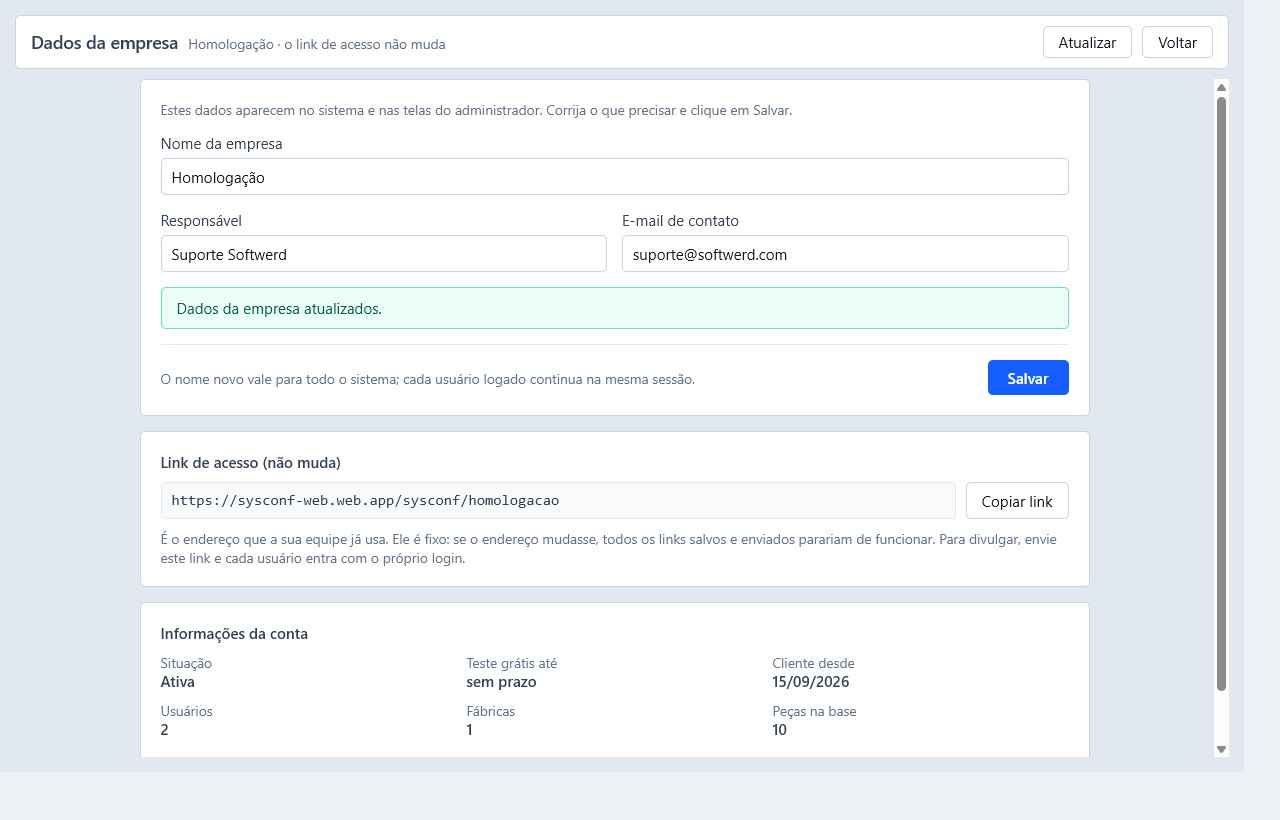
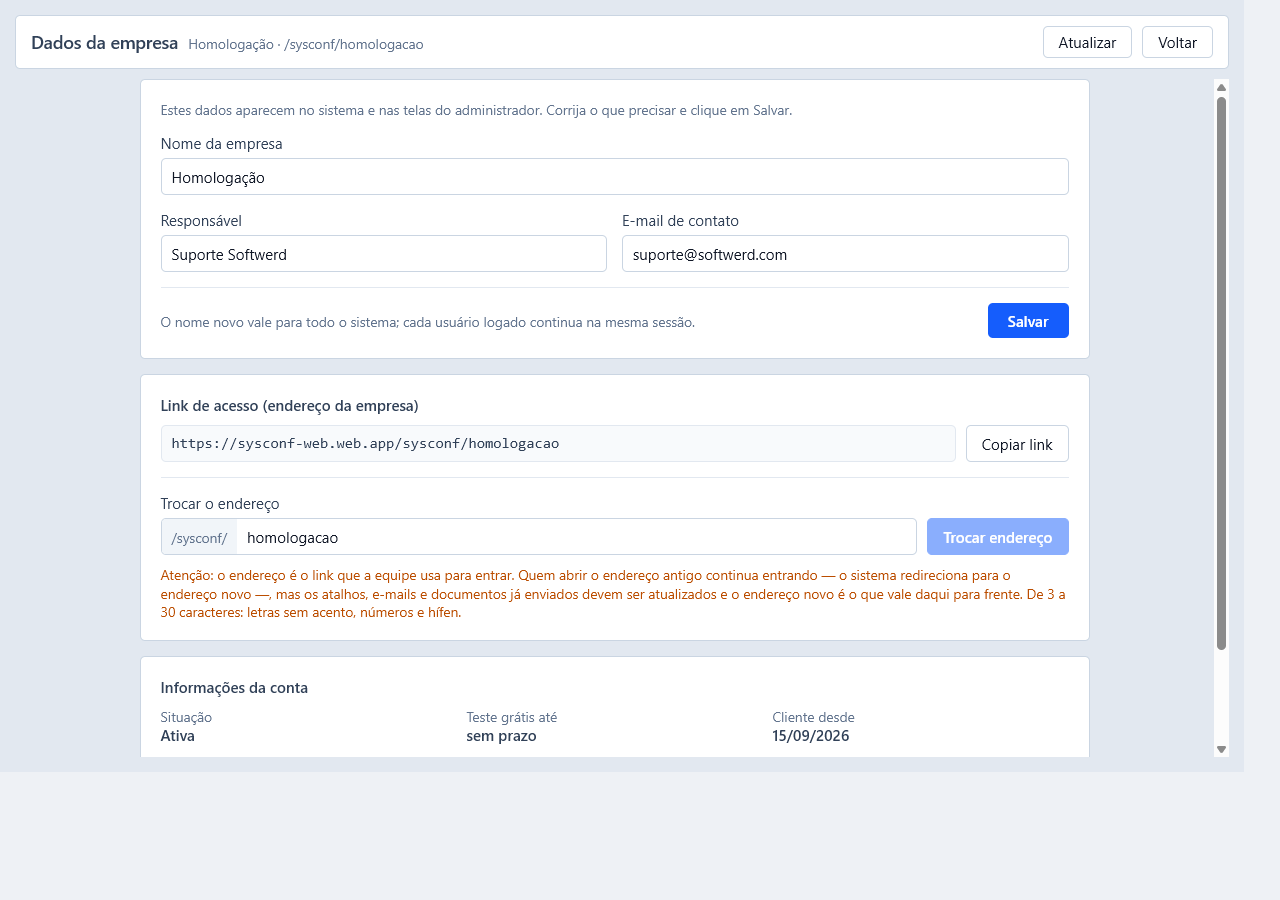
feat(empresa): trocar o endereco (slug) na tela de dados da empresa, com apelido e redirecionamento dos links antigos

Changed region(s): [[0.0, 0.0305, 0.9688, 0.8841], [0.9375, 0.7317, 0.9688, 0.8537]]

diff --git a/web/src/telas/EmpresaDados.tsx b/web/src/telas/EmpresaDados.tsx
@@ -8,7 +8,7 @@ import {
   type Empresa,
   type UsuarioLogado,
 } from '../lib/api';
-import { PERFIL } from '../lib/config';
+import { PERFIL, erroDoEndereco } from '../lib/config';
 
 type Props = {
   empresa: Empresa;
@@ -44,6 +44,8 @@ export default function EmpresaDados({ empresa, usuarioLogado, onVoltar, onAtual
   const [ocupado, setOcupado] = useState(false);
   const [migracaoOk, setMigracaoOk] = useState(true);
   const [copiado, setCopiado] = useState(false);
+  /** Endereço novo (o campo começa com o endereço atual). */
+  const [endereco, setEndereco] = useState('');
 
   const administrador = usuarioLogado.perfil === PERFIL.ADMIN;
 
@@ -56,6 +58,7 @@ export default function EmpresaDados({ empresa, usuarioLogado, onVoltar, onAtual
       setNome(encontrados.nome ?? '');
       setResponsavel(encontrados.responsavel ?? '');
       setEmail(encontrados.email_contato ?? '');
+      setEndereco(encontrados.slug ?? '');
       setMigracaoOk(true);
     } catch (falha) {
       if (migracaoPendente(falha)) setMigracaoOk(false);
@@ -102,6 +105,50 @@ export default function EmpresaDados({ empresa, usuarioLogado, onVoltar, onAtual
     }
   }
 
+  /**
+   * Troca o ENDEREÇO da empresa. Depois de gravar, o próprio app recarrega no
+   * endereço novo (o link antigo passa a redirecionar para ele).
+   */
+  async function trocarEndereco() {
+    setErro('');
+    setMensagem('');
+
+    const novo = endereco.trim().toLowerCase();
+    if (!dados || novo === dados.slug.toLowerCase()) {
+      setErro('O endereço informado é o mesmo que já está em uso.');
+      return;
+    }
+
+    const problema = erroDoEndereco(novo);
+    if (problema) {
+      setErro(problema);
+      return;
+    }
+
+    const confirmado = confirm(
+      `Trocar o endereço de /sysconf/${dados.slug} para /sysconf/${novo}?\n\n` +
+        'Quem usar o endereço antigo será levado para o novo automaticamente, mas divulgue o endereço ' +
+        'novo para a equipe.',
+    );
+    if (!confirmado) return;
+
+    setOcupado(true);
+    try {
+      await atualizarDadosEmpresa({
+        nome: nome.trim(),
+        responsavel,
+        emailContato: email,
+        slug: novo,
+      });
+      setMensagem(`Endereço alterado para /sysconf/${novo}. Recarregando...`);
+      /* recarrega no endereço novo: a empresa é resolvida pela URL */
+      window.location.href = `${window.location.origin}/sysconf/${novo}/empresa`;
+    } catch (falha) {
+      setErro(falha instanceof Error ? falha.message : 'Falha ao trocar o endereço.');
+      setOcupado(false);
+    }
+  }
+
   if (!administrador) {
     return (
       <div className="flex h-screen items-center justify-center bg-slate-200 p-6">
@@ -127,7 +174,7 @@ export default function EmpresaDados({ empresa, usuarioLogado, onVoltar, onAtual
         <h1 className="text-sm font-semibold text-slate-700">
           Dados da empresa
           <span className="ml-2 text-[11px] font-normal text-slate-500">
-            {dados?.nome ?? ''} · o link de acesso não muda
+            {dados ? `${dados.nome} · /sysconf/${dados.slug}` : ''}
           </span>
         </h1>
         <div className="flex items-center gap-2">
@@ -223,7 +270,7 @@ export default function EmpresaDados({ empresa, usuarioLogado, onVoltar, onAtual
 
           {/* ------------------------------------------- link de acesso -- */}
           <div className="rounded border border-slate-300 bg-white p-4 text-xs">
-            <p className="mb-2 font-semibold text-slate-700">Link de acesso (não muda)</p>
+            <p className="mb-2 font-semibold text-slate-700">Link de acesso (endereço da empresa)</p>
             <div className="flex flex-wrap items-center gap-2">
               <code className="flex-1 rounded border border-slate-200 bg-slate-50 px-2 py-1.5 break-all text-slate-700">
                 {window.location.origin}/sysconf/{dados?.slug ?? empresa.slug}
@@ -235,11 +282,38 @@ export default function EmpresaDados({ empresa, usuarioLogado, onVoltar, onAtual
                 {copiado ? 'Copiado!' : 'Copiar link'}
               </button>
             </div>
-            <p className="mt-2 text-[11px] text-slate-500">
-              É o endereço que a sua equipe já usa. Ele é fixo: se o endereço mudasse, todos os links
-              salvos e enviados parariam de funcionar. Para divulgar, envie este link e cada usuário
-              entra com o próprio login.
-            </p>
+
+            <div className="mt-3 border-t border-slate-200 pt-3">
+              <span className="mb-1 block text-slate-700">Trocar o endereço</span>
+              <div className="flex flex-wrap items-stretch gap-2">
+                <div className="flex flex-1 items-stretch overflow-hidden rounded border border-slate-300">
+                  <span className="flex items-center bg-slate-100 px-2 text-[11px] text-slate-500">
+                    /sysconf/
+                  </span>
+                  <input
+                    value={endereco}
+                    maxLength={30}
+                    onChange={(e) =>
+                      setEndereco(e.target.value.toLowerCase().replace(/[^a-z0-9-]/g, '').slice(0, 30))
+                    }
+                    className="w-full px-2 py-1.5 outline-none focus:bg-emerald-50"
+                  />
+                </div>
+                <button
+                  onClick={() => void trocarEndereco()}
+                  disabled={ocupado || !dados || endereco.trim().toLowerCase() === dados?.slug?.toLowerCase()}
+                  className="rounded border border-blue-600 bg-blue-600 px-3 py-1.5 font-semibold text-white hover:bg-blue-700 disabled:opacity-50"
+                >
+                  Trocar endereço
+                </button>
+              </div>
+              <p className="mt-2 text-[11px] text-amber-700">
+                Atenção: o endereço é o link que a equipe usa para entrar. Quem abrir o endereço antigo
+                continua entrando — o sistema redireciona para o endereço novo —, mas os atalhos, e-mails
+                e documentos já enviados devem ser atualizados e o endereço novo é o que vale daqui para
+                frente. De 3 a 30 caracteres: letras sem acento, números e hífen.
+              </p>
+            </div>
           </div>
 
           {/* --------------------------------------------- só informativo -- */}

diff --git a/web/src/telas/Ajuda.tsx b/web/src/telas/Ajuda.tsx
@@ -258,18 +258,20 @@ const SECOES: Secao[] = [
     id: 'empresa',
     titulo: '16. Dados da empresa',
     resumo:
-      'O administrador corrige o cadastro da própria empresa: nome, responsável e e-mail de contato. O LINK DE ACESSO (/sysconf/<empresa>) não muda — é o endereço que a equipe já tem salvo e enviado.',
+      'O administrador corrige o cadastro da própria empresa: nome, responsável, e-mail de contato e o ENDEREÇO de acesso (/sysconf/<empresa>). Quando o endereço muda, o link antigo continua funcionando: o sistema redireciona quem entrar por ele para o endereço novo.',
     passos: [
       'Menu ☰ → Dados da empresa. Ajuste o nome, o responsável e o e-mail de contato.',
       'Clique em Salvar: o nome novo passa a valer em todo o sistema, na hora.',
       'Use “Copiar link” para enviar o endereço de acesso a alguém da equipe.',
+      'Para trocar o endereço: escreva o novo no campo “Trocar o endereço” e clique no botão. O sistema confirma o aviso e recarrega a página já no endereço novo.',
       'A caixa “Informações da conta” mostra situação, prazo do teste, cliente desde, usuários, fábricas e peças na base.',
     ],
     dicas: [
-      'O endereço (/sysconf/sua-empresa) é fixo de propósito: se ele mudasse, todos os atalhos e links enviados parariam de funcionar.',
+      'O endereço antigo fica guardado como apelido: atalhos, e-mails e documentos que apontam para ele continuam abrindo o sistema (com redirecionamento). Mesmo assim, atualize os atalhos e avise a equipe.',
+      'O endereço é único no sistema e tem de 3 a 30 caracteres: letras sem acento, números e hífen (não pode começar nem terminar com hífen).',
       'Situação da conta e prazo do teste são ajustados pelo suporte. A retenção dos logs fica na tela “Logs de conferência”.',
     ],
-    imagem: { arquivo: '/manual/17-empresa.png', legenda: 'Dados da empresa, com o link de acesso fixo' },
+    imagem: { arquivo: '/manual/17-empresa.png', legenda: 'Dados da empresa, com o endereço de acesso e a troca de endereço' },
     somenteAdmin: true,
   },
   {

diff --git a/web/src/telas/Registrar.tsx b/web/src/telas/Registrar.tsx
@@ -1,30 +1,17 @@
 import { useMemo, useState } from 'react';
 import { registrarEmpresa, type UsuarioLogado } from '../lib/api';
-import { MARCA, TRIAL_DIAS, sugerirEndereco } from '../lib/config';
+import {
+  MARCA,
+  TRIAL_DIAS,
+  ENDERECO_VALIDO,
+  ENDERECOS_RESERVADOS,
+  sugerirEndereco,
+} from '../lib/config';
 
 type Props = {
   onEntrar: (usuario: UsuarioLogado, memorizar: boolean) => void;
 };
 
-/** Mesma lista do RPC registrar_empresa (endereços que não podem ser usados). */
-const RESERVADOS = [
-  'sysconf',
-  'entrar',
-  'registrar',
-  'login',
-  'api',
-  'admin',
-  'www',
-  'app',
-  'suporte',
-  'contato',
-  'painel',
-  'conferencia',
-  'importacao',
-  'usuarios',
-];
-
-const ENDERECO_VALIDO = /^[a-z0-9]([a-z0-9-]{1,28})[a-z0-9]$/;
 const LOGIN_VALIDO = /^[A-Z0-9][A-Z0-9._-]*$/;
 const EMAIL_VALIDO = /^[^@\s]+@[^@\s]+\.[^@\s]+$/;
 
@@ -65,7 +52,7 @@ export default function Registrar({ onEntrar }: Props) {
     if (empresa.trim().length < 2) return 'Informe o nome da empresa (mínimo 2 caracteres).';
     if (!ENDERECO_VALIDO.test(endereco))
       return 'O endereço deve ter de 3 a 30 caracteres, usando letras sem acento, números e hífen (não pode começar nem terminar com hífen).';
-    if (RESERVADOS.includes(endereco)) return 'Este endereço é reservado pelo sistema. Escolha outro.';
+    if (ENDERECOS_RESERVADOS.includes(endereco)) return 'Este endereço é reservado pelo sistema. Escolha outro.';
     if (login.trim().length < 3) return 'O usuário deve ter no mínimo 3 caracteres.';
     if (login.trim().length > 30) return 'O usuário deve ter no máximo 30 caracteres.';
     if (!LOGIN_VALIDO.test(login.trim())) return 'O usuário aceita apenas letras, números, ponto, hífen e sublinhado.';

diff --git a/web/src/lib/config.ts b/web/src/lib/config.ts
@@ -158,3 +158,46 @@ export function sugerirEndereco(nome: string): string {
     .slice(0, 30)
     .replace(/-+$/g, '');
 }
+
+/**
+ * ENDERECO DA EMPRESA (o que vai na URL: /sysconf/<endereco>).
+ *
+ * As regras ficam aqui para o autocadastro (/registrar) e a tela "Dados da
+ * empresa" validarem IGUAL — e iguais também às do banco
+ * (`registrar_empresa` e `empresa_atualizar`).
+ */
+export const ENDERECO_VALIDO = /^[a-z0-9]([a-z0-9-]{1,28})[a-z0-9]$/;
+
+/** Nomes que o sistema usa em rota própria — não podem virar endereço de empresa. */
+export const ENDERECOS_RESERVADOS = [
+  'sysconf',
+  'entrar',
+  'registrar',
+  'login',
+  'api',
+  'admin',
+  'www',
+  'app',
+  'suporte',
+  'contato',
+  'painel',
+  'conferencia',
+  'importacao',
+  'usuarios',
+  'empresa',
+  'estagios',
+  'locais',
+  'logs',
+];
+
+/** Devolve a mensagem do problema do endereço ('' quando está válido). */
+export function erroDoEndereco(valor: string): string {
+  const endereco = valor.trim().toLowerCase();
+  if (!ENDERECO_VALIDO.test(endereco)) {
+    return 'O endereço deve ter de 3 a 30 caracteres, usando letras sem acento, números e hífen (não pode começar nem terminar com hífen).';
+  }
+  if (ENDERECOS_RESERVADOS.includes(endereco)) {
+    return `O endereço "${endereco}" é reservado pelo sistema. Escolha outro.`;
+  }
+  return '';
+}

diff --git a/web/src/Sysconf.tsx b/web/src/Sysconf.tsx
@@ -71,13 +71,27 @@ export default function Sysconf() {
 
     if (!rota.empresa) return;
 
-    obterEmpresa(rota.empresa)
+    const slugDaUrl = rota.empresa;
+
+    obterEmpresa(slugDaUrl)
       .then((encontrada) => {
         if (cancelado) return;
         if (!encontrada || Number(encontrada.ativo) !== 1) {
           setEmpresaErro('Empresa não encontrada ou inativa. Confira o link recebido.');
           return;
         }
+
+        /*
+         * Endereço ANTIGO da empresa (apelido): manda o navegador para o
+         * endereço atual, para o link velho nunca dar erro. O banco devolve
+         * sempre o slug de hoje em `encontrada.slug`.
+         */
+        if (encontrada.slug.toLowerCase() !== slugDaUrl.toLowerCase()) {
+          const tela = rota.tela === 'login' ? '/login' : `/${rota.tela}`;
+          window.location.replace(`/sysconf/${encontrada.slug}${tela}${window.location.search}`);
+          return;
+        }
+
         setEmpresa(encontrada);
       })
       .catch((falha) => {

diff --git a/web/src/lib/api.ts b/web/src/lib/api.ts
@@ -196,18 +196,23 @@ export async function dadosDaEmpresa(): Promise<DadosEmpresa> {
 }
 
 /**
- * Grava nome, responsável e e-mail de contato. O SLUG (link de acesso) não é
- * enviado de propósito: o endereço da empresa não muda.
+ * Grava nome, responsável, e-mail de contato e, quando informado, o ENDEREÇO
+ * (slug). O endereço antigo fica como apelido no banco: o link velho continua
+ * abrindo o sistema (o app redireciona para o endereço novo).
+ * A RPC devolve 1 (dados) ou 2 (dados + endereço trocado).
  */
 export async function atualizarDadosEmpresa(dados: {
   nome: string;
   responsavel: string;
   emailContato: string;
-}): Promise<void> {
-  await rpc<number>('empresa_atualizar', {
+  /** Só quando o administrador trocou o endereço. */
+  slug?: string;
+}): Promise<number> {
+  return rpc<number>('empresa_atualizar', {
     p_nome: dados.nome,
     p_responsavel: dados.responsavel,
     p_email_contato: dados.emailContato,
+    p_slug: dados.slug ?? null,
   });
 }
 
